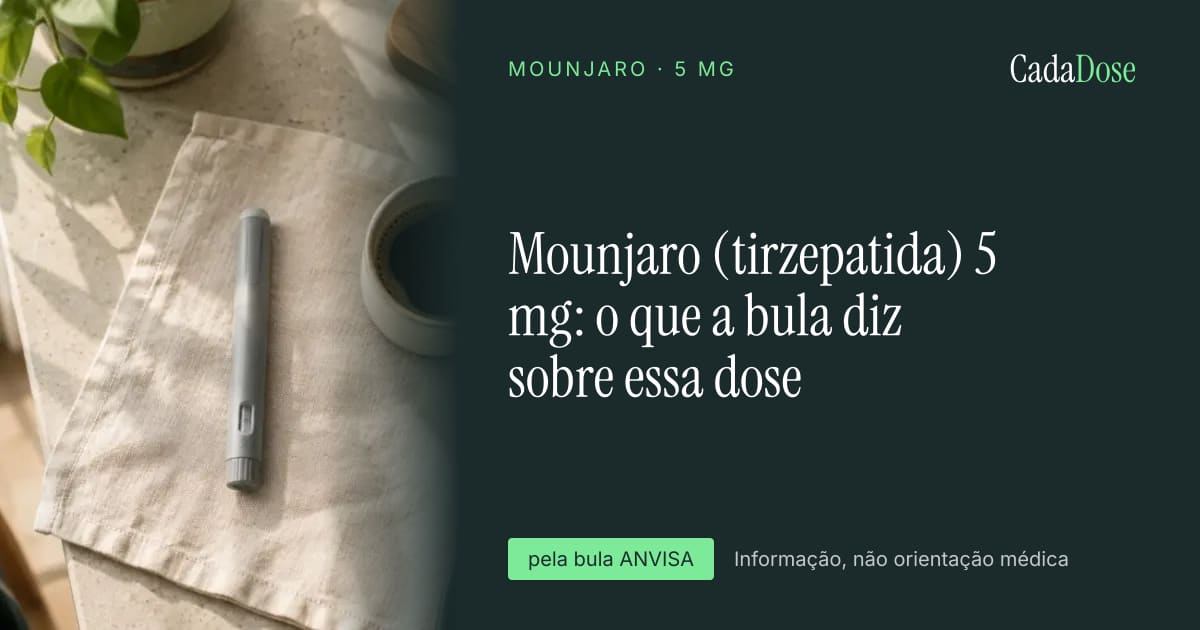
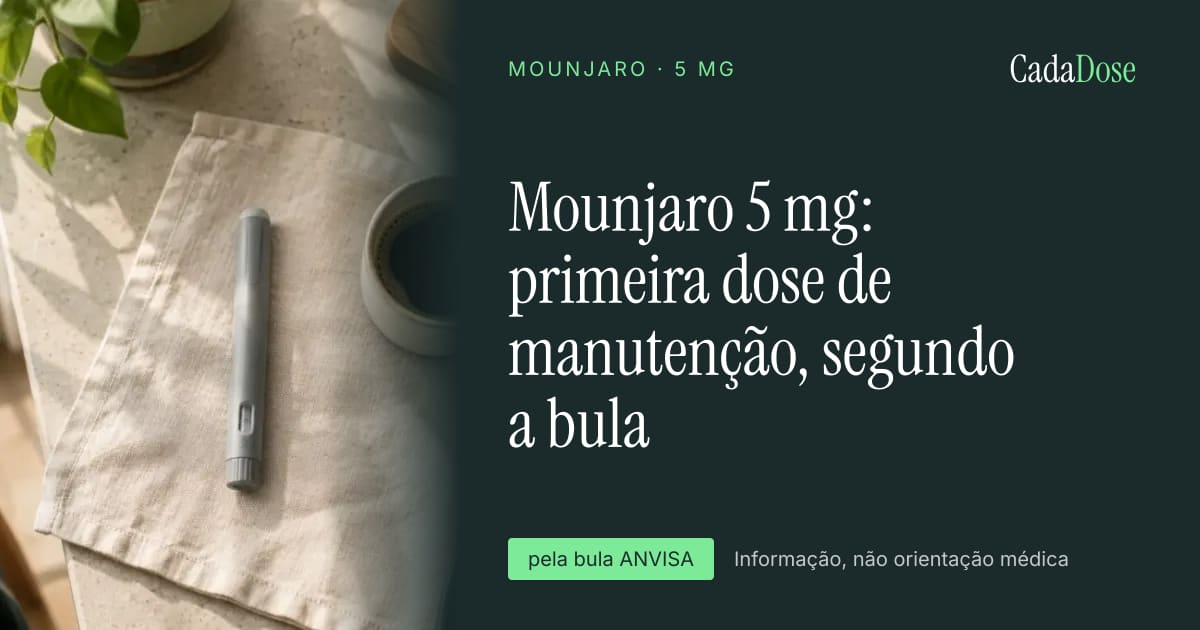
SEO pass from Search Console data
- Dose pages: short titles matching how Brazilians search ("Wegovy 0,25 mg: dose de
  início, semanas 1 a 4"), descriptions carry the dotted form (0.25mg)
- Dose tables and receita pages: titles with the key fact / online+digital
- Medication hubs: title with doses/validade and question count
- New sourced article: quem amamenta pode tomar "Mounjaro de pobre"
  (tirzepatida manipulada) — Mounjaro bula + ANVISA NT 200/2025
- Section links ("Leia também") in articles/guides; guide links to it
- BreadcrumbList on hubs/guides/temas, ItemList on temas; sitemap lastmod bump

Claude-Session: https://claude.ai/code/session_01Pw4jiE9WjkrQrU8knGg6oQ

Changed region(s): [[0.4008, 0.2714, 0.8633, 0.7238]]

diff --git a/src/content/pt-wave6.ts b/src/content/pt-wave6.ts
@@ -24,7 +24,7 @@ const cff = {
 const sx = { label: "Bula do paciente Saxenda® (liraglutida), Novo Nordisk — registro ANVISA 1.1766.0032, aprovada em 17/04/2026", url: "https://novonordisk.com.br/content/dam/nncorp/br/pt/pdfs/bulas/patient/Saxenda_Bula_Paciente1.pdf" };
 const rb = { label: "Bula do paciente Rybelsus® (semaglutida), Novo Nordisk — registro ANVISA 1.1766.0037, aprovada em 08/09/2026", url: "https://www.novonordisk.com.br/content/dam/nncorp/br/pt/pdfs/bulas/patient/Rybelsus_Bula_PACIENTE.pdf" };
 const bulario = { label: "Bulário Eletrônico — ANVISA (confira a versão mais recente)", url: "https://consultas.anvisa.gov.br/#/bulario/" };
-const U = "2026-10-28";
+const U = "2026-11-03";
 
 const A = (medicationSlug: string, intent: Article["intent"], title: string, answer: string, description: string, sections: Section[], faq: { q: string; a: string }[], sources: { label: string; url: string }[]): Article =>
   ({ medicationSlug, intent, title, answer, description, updated: U, reviewed: false, sections, faq, sources });
@@ -44,10 +44,18 @@ const mjSteps: [Article["intent"], string, string, string][] = [
   ["dose-12-5-mg", "12,5 mg", "Um passo intermediário entre 10 e 15 mg, permitido pela regra de “acréscimos de 2,5 mg após o mínimo de 4 semanas na dose atual”. Não está entre as doses de manutenção recomendadas listadas na bula (5, 10 e 15 mg).", "Passo intermediário entre 10 e 15 mg."],
   ["dose-15-mg", "15 mg", "A dose máxima. “A dose máxima de MOUNJARO é 15 mg uma vez por semana.” Também é uma das doses de manutenção recomendadas. Em adolescentes com diabetes tipo 2, o máximo é 10 mg.", "Dose máxima em adultos segundo a bula."],
 ];
+const mjTitles: Record<string, string> = {
+  "dose-2-5-mg": "Mounjaro 2,5 mg: dose inicial por 4 semanas, segundo a bula",
+  "dose-5-mg": "Mounjaro 5 mg: primeira dose de manutenção, segundo a bula",
+  "dose-7-5-mg": "Mounjaro 7,5 mg: passo entre 5 e 10 mg, segundo a bula",
+  "dose-10-mg": "Mounjaro 10 mg: dose de manutenção, segundo a bula",
+  "dose-12-5-mg": "Mounjaro 12,5 mg: passo entre 10 e 15 mg, segundo a bula",
+  "dose-15-mg": "Mounjaro 15 mg: dose máxima, segundo a bula",
+};
 const mjDose = mjSteps.map(([intent, mg, answer, short]) =>
-  A("mounjaro", intent, `Mounjaro (tirzepatida) ${mg}: o que a bula diz sobre essa dose`,
+  A("mounjaro", intent, mjTitles[intent],
     `${answer} Cada caneta de uso único de 0,5 mL contém uma dose; a caixa tem 4 canetas (4 semanas).`,
-    `Mounjaro ${mg} segundo a bula brasileira: ${short}`,
+    `Mounjaro (tirzepatida) ${mg} (${mg.replace(",", ".").replace(" ", "")}) segundo a bula brasileira: ${short} Quanto tempo ficar, quando aumentar, o que fazer se esquecer.`,
     [
       { heading: "A escada de doses na bula (seção 6)", table: { head: ["Dose", "Papel na bula"], rows: [["2,5 mg", "Dose inicial, 4 semanas"], ["5 mg", "Manutenção (após 4 semanas em 2,5 mg)"], ["7,5 mg", "Passo intermediário"], ["10 mg", "Manutenção"], ["12,5 mg", "Passo intermediário"], ["15 mg", "Manutenção e dose máxima"]] } },
       { heading: "Regras de aumento", bullets: ["“Se necessário, aumentos de dose podem ser feitos em acréscimos de 2,5 mg após o mínimo de 4 semanas na dose atual.”", "“A dose máxima de MOUNJARO é 15 mg uma vez por semana.”", "Controle do peso: se não houver perda de pelo menos 5% do peso inicial em 6 meses na maior dose tolerada, o médico decide se continua (bula versão 05/2026)."] },
@@ -70,9 +78,9 @@ const wgSteps: [Article["intent"], string, string][] = [
   ["dose-2-4-mg", "2,4 mg", "Dose de manutenção a partir da semana 17; “depois de atingir a dose recomendada de 2,4 mg, não aumente mais esta dose”."],
 ];
 const wgDose = wgSteps.map(([intent, mg, role]) =>
-  A("wegovy", intent, `Wegovy (semaglutida) ${mg}: o que a bula diz sobre essa dose`,
+  A("wegovy", intent, `Wegovy ${mg}: ${role.replace(/[.;].*$/, "").replace(/^Dose de manutenção a partir da semana 17/, "dose de manutenção (semana 17 em diante)").replace(/^Dose de início/, "dose de início").replace(/^Semanas/, "semanas")}, segundo a bula`,
     `${role} A bula do Wegovy aumenta a dose a cada 4 semanas até 2,4 mg (dose de manutenção) ou a dose máxima tolerada. Se o enjoo incomodar muito, a bula orienta conversar com o médico sobre adiar o aumento ou voltar à dose anterior. Cada caneta tem 4 doses da mesma concentração.`,
-    `Wegovy ${mg} segundo a bula brasileira: ${role}`,
+    `Wegovy (semaglutida) ${mg} (${mg.replace(",", ".").replace(" ", "")}) segundo a bula brasileira: ${role} Escada completa de 0,25 a 2,4 mg e o que fazer com o enjoo.`,
     [
       { heading: "A escada de doses na bula (seção 6)", table: { head: ["Semanas", "Dose semanal"], rows: [["1–4", "0,25 mg"], ["5–8", "0,5 mg"], ["9–12", "1 mg"], ["13–16", "1,7 mg"], ["17 em diante", "2,4 mg (manutenção)"]] } },
       { heading: "O que a bula diz sobre tolerância", bullets: ["“Caso você esteja se sentindo muito incomodado por conta do enjoo (náuseas) ou vômitos, converse com seu médico sobre adiar o aumento da dose ou diminuir para a dose anterior até que os sintomas melhorem.”", "“A dose deve ser aumentada até atingir 2,4 mg (dose de manutenção) ou a dose máxima tolerada.”"] },
@@ -91,9 +99,9 @@ const ozSteps: [Article["intent"], string, string, { label: string; url: string 
   ["dose-1-mg", "1 mg", "Dose máxima na bula brasileira do paciente: após pelo menos 4 semanas em 0,5 mg, o médico pode aumentar para 1 mg.", oz],
 ];
 const ozDose = ozSteps.map(([intent, mg, role, src]) =>
-  A("ozempic", intent, `Ozempic (semaglutida) ${mg}: o que a bula diz sobre essa dose`,
+  A("ozempic", intent, `Ozempic ${mg}: ${intent === "dose-1-mg" ? "dose máxima da bula brasileira" : role.replace(/[.;].*$/, "").toLowerCase()}, segundo a bula`,
     `${role} A escada na bula é 0,25 mg (4 semanas) → 0,5 mg → 1 mg, sempre uma vez por semana, por decisão médica. Cada caneta tem 4 doses; a caneta em uso dura 6 semanas.`,
-    `Ozempic ${mg} segundo a bula brasileira: ${role}`,
+    `Ozempic (semaglutida) ${mg} (${mg.replace(",", ".").replace(" ", "")}) segundo a bula brasileira: ${role} Escada 0,25 → 0,5 → 1 mg e canetas.`,
     [
       { heading: "A escada de doses na bula", table: { head: ["Período", "Dose semanal"], rows: [["Semanas 1–4", "0,25 mg (início)"], ["A partir da semana 5", "0,5 mg"], ["Após ≥ 4 semanas em 0,5 mg, se o médico decidir", "1 mg"]] } },
       { heading: "Canetas", paragraphs: ["A caneta de 0,25/0,5 mg (1,5 mL) e a caneta de 1 mg (3 mL) são apresentações diferentes; cada uma entrega 4 doses. Agulha nova a cada aplicação; caneta em uso por até 6 semanas."] },
@@ -106,9 +114,9 @@ const ozDose = ozSteps.map(([intent, mg, role, src]) =>
 
 // ───────── PRECISA DE RECEITA ─────────
 const receita = (slug: string, nome: string, bula: { label: string; url: string }) =>
-  A(slug, "precisa-de-receita", `${nome} precisa de receita? O que a regra da ANVISA exige`,
+  A(slug, "precisa-de-receita", `${nome} precisa de receita? Receita retida, digital e online: a regra da ANVISA`,
     `Sim. Desde a RDC 973/2025 (com a IN 360/2025), medicamentos à base de semaglutida, liraglutida, dulaglutida, tirzepatida e lixisenatida só são vendidos com receita, e a farmácia retém uma via: “A retenção da receita é obrigatória”. A receita vale 90 dias e a venda é registrada no SNGPC. Isso vale para ${nome}.`,
-    `${nome} exige receita médica retida (RDC 973/2025). Validade da receita, via retida e receita digital.`,
+    `${nome} exige receita médica retida (RDC 973/2025). Dá para comprar online ou sem receita? Validade de 90 dias, via retida e receita digital pelo SNCR.`,
     [
       { heading: "O que mudou (RDC 973/2025 e IN 360/2025)", bullets: ["Receita obrigatória em duas vias; a farmácia fica com uma (“A retenção da receita é obrigatória”).", "A receita vale por 90 dias a partir da emissão.", "Compra e venda registradas no SNGPC.", "Receita digital só vale se emitida por sistema integrado ao SNCR.", "A regra alcança semaglutida, liraglutida, dulaglutida, tirzepatida e lixisenatida, isoladas ou em associação."] },
       { heading: "O que a bula diz", paragraphs: [`A bula do ${nome} traz a tarja “Venda sob prescrição médica”. A decisão de iniciar, manter ou mudar a dose é do médico.`] },

diff --git a/src/content/pt-manipulados.ts b/src/content/pt-manipulados.ts
@@ -14,6 +14,11 @@ const cffNorma2026 = {
   url: "https://site.cff.org.br/noticia/Noticias-gerais/14/04/2026/anvisa-prepara-nova-norma-com-regras-para-manipulacao-de-canetas-emagrecedoras",
 };
 
+const mounjaroBula = {
+  label: "Bula do paciente Mounjaro® (tirzepatida), Eli Lilly do Brasil — registro ANVISA 1.1260.0202, versão 05/2026 (ampliação de uso aprovada em 22/04/2026)",
+  url: "https://bkt-prd-grupopanvel-datalake-documents.s3.amazonaws.com/bulas/anomesdia=20260513/codigo_item=89181/bula_paciente.pdf",
+};
+
 const sharedSections = [
   {
     heading: "Receita obrigatória e retida (RDC 973/2025)",
@@ -90,5 +95,53 @@ export const ptManipulados: Article[] = [
     ],
     faq: sharedFaq,
     sources: [nt200, cffRdc973, cffNorma2026],
+  },
+  {
+    medicationSlug: "tirzepatida-manipulada",
+    intent: "gravidez-e-amamentacao",
+    title: "Quem amamenta pode tomar “Mounjaro de pobre” (tirzepatida manipulada)? O que dizem a bula e a ANVISA",
+    answer:
+      "Não existe bula para “Mounjaro de pobre”: o nome é usado para a tirzepatida manipulada, que não tem registro nem bula na ANVISA. A única bula de tirzepatida no Brasil é a do Mounjaro, e ela diz que a quantidade no leite materno é “considerada indetectável a muito baixa”, com uso na amamentação sujeito a avaliação médica. Para o manipulado, a ANVISA afirma que esses injetáveis não têm “comprovação de estabilidade, esterilidade e equivalência terapêutica”, ou seja, o que vale para o Mounjaro não pode ser estendido a ele. A decisão é do médico.",
+    description: "“Mounjaro de pobre” é a tirzepatida manipulada, sem bula. O que a bula do Mounjaro diz sobre amamentação e por que a ANVISA não considera o manipulado equivalente.",
+    updated: "2026-11-03",
+    reviewed: false,
+    sections: [
+      {
+        heading: "O que é chamado de “Mounjaro de pobre”",
+        paragraphs: [
+          "A expressão aparece nas buscas para a tirzepatida manipulada em farmácia (frasco com seringa) e, às vezes, para outras canetas sem registro. Nenhum desses produtos tem bula aprovada pela ANVISA. O único medicamento com tirzepatida registrado no Brasil é o Mounjaro (registro 1.1260.0202).",
+        ],
+        links: [
+          { label: "“Mounjaro natural” ou “de pobre” existe?", href: "/guias/mounjaro-natural-ou-de-pobre-existe" },
+          { label: "Tirzepatida manipulada: regras da ANVISA", href: "/medicamentos/tirzepatida-manipulada/regras-anvisa" },
+        ],
+      },
+      {
+        heading: "O que a bula do Mounjaro diz sobre amamentação",
+        paragraphs: [
+          "A bula do paciente informa que a quantidade de tirzepatida no leite materno é “considerada indetectável a muito baixa”, e que o uso durante a amamentação deve ser avaliado pelo médico. A bula não libera o uso por conta própria.",
+        ],
+        links: [{ label: "Mounjaro na gravidez e na amamentação (bula)", href: "/medicamentos/mounjaro/gravidez-e-amamentacao" }],
+      },
+      {
+        heading: "Por que isso não se transfere ao manipulado (Nota Técnica 200/2025)",
+        bullets: [
+          "A ANVISA classifica os injetáveis de GLP-1 manipulados como de alto risco “sem comprovação de estabilidade, esterilidade e equivalência terapêutica”.",
+          "“A manipulação rotineira dessas substâncias em farmácias não se mostra viável do ponto de vista sanitário.”",
+          "O insumo precisa ter identidade, pureza e rastreabilidade documentadas; é “vedado o uso de IFAs” sem origem e boas práticas comprovadas.",
+          "Sem equivalência comprovada, não há como afirmar que a quantidade que passa ao leite seja a mesma descrita na bula do Mounjaro.",
+        ],
+      },
+      {
+        heading: "Receita obrigatória (RDC 973/2025)",
+        paragraphs: ["Tirzepatida, manipulada ou não, só é dispensada com receita retida em duas vias, válida por 90 dias, com registro no SNGPC (IN 360/2025)."],
+      },
+    ],
+    faq: [
+      { q: "Quem amamenta pode tomar Mounjaro de pobre?", a: "Não há bula nem avaliação da ANVISA para a tirzepatida manipulada, então não existe orientação oficial de uso na amamentação. A bula do Mounjaro descreve a quantidade no leite como indetectável a muito baixa, com uso sujeito ao médico; a ANVISA diz que o manipulado não tem equivalência comprovada. Fale com quem prescreveu." },
+      { q: "A bula do Mounjaro vale para o manipulado?", a: "Não. A bula se refere ao produto registrado; a Nota Técnica 200/2025 afirma que os manipulados não têm comprovação de estabilidade, esterilidade e equivalência terapêutica." },
+      { q: "E na gravidez?", a: "A bula do Mounjaro diz que, para controle do peso, o medicamento não deve ser usado na gravidez, e que deve ser interrompido pelo menos 1 mês antes de uma gravidez planejada. Para o manipulado, não há bula." },
+    ],
+    sources: [mounjaroBula, nt200, cffRdc973],
   },
 ];

diff --git a/src/app/medicamentos/[slug]/page.tsx b/src/app/medicamentos/[slug]/page.tsx
@@ -1,5 +1,6 @@
 import type { Metadata } from "next";
 import { social } from "@/lib/seo";
+import { siteUrl } from "@/lib/locales";
 import Link from "next/link";
 import { notFound } from "next/navigation";
 import { dictionary as t } from "@/i18n/dictionaries";
@@ -19,10 +20,10 @@ export async function generateMetadata({ params }: { params: Promise<{ slug: str
   const med = getMedication(slug);
   if (!med) return {};
   return {
-    title: `${med.name} — ${t.content.allAbout.toLowerCase()} ${med.activeIngredient}`,
-    description: t.content.disclaimerShort,
+    title: `${med.name.split(" (")[0]}: bula, doses, validade e ${getArticlesForMedication(slug).length} perguntas respondidas`,
+    description: `Tudo sobre ${med.name} pela bula aprovada pela ANVISA: tabela de doses, validade depois de aberto, dose esquecida, efeitos colaterais, receita. ${t.content.disclaimerShort}`,
     alternates: { canonical: `/medicamentos/${slug}` },
-    ...social(`med-${slug}`, `${med.name} — ${t.content.allAbout.toLowerCase()} ${med.activeIngredient}`, t.content.disclaimerShort, { path: `/medicamentos/${slug}` }),
+    ...social(`med-${slug}`, `${med.name.split(" (")[0]}: bula, doses, validade e perguntas respondidas`, `Tudo sobre ${med.name} pela bula aprovada pela ANVISA.`, { path: `/medicamentos/${slug}` }),
   };
 }
 
@@ -41,8 +42,10 @@ export default async function MedicationHub({ params }: { params: Promise<{ slug
   if (med.maxTempC) facts.push(["Temperatura máxima", `${med.maxTempC} °C`]);
   if (med.missedDoseWindowHours) facts.push(["Janela da dose esquecida", `${med.missedDoseWindowHours} h`]);
 
+  const crumbsLd = { "@context": "https://schema.org", "@type": "BreadcrumbList", itemListElement: [{ "@type": "ListItem", position: 1, name: "Medicamentos", item: `${siteUrl}/medicamentos` }, { "@type": "ListItem", position: 2, name: short, item: `${siteUrl}/medicamentos/${slug}` }] };
   return (
     <>
+      <script type="application/ld+json" dangerouslySetInnerHTML={{ __html: JSON.stringify(crumbsLd) }} />
       <PageHero eyebrow={`${med.activeIngredient} · ${med.frequency === "daily" ? "uso diário" : "aplicação semanal"}`} title={`${short}: ${articles.length} perguntas respondidas pela bula`} lede={t.content.disclaimerShort} image={medImage(slug)} crumbs={[{ label: "Medicamentos", href: "/medicamentos" }, { label: short }]} />
 
       <div className="mx-auto max-w-7xl px-6 py-14 md:px-10 md:py-20">

diff --git a/src/content/guias-marcas.ts b/src/content/guias-marcas.ts
@@ -134,6 +134,11 @@ export const guiasMarcasExtra: Guide[] = [
         "Não há “tirzepatida natural”: tirzepatida é uma molécula sintética produzida por laboratório, com registro de medicamento. Chás, cápsulas de berberina, canela ou “GLP-1 natural” não têm bula que os equipare e não são regulados como medicamento.",
         "Não há “Mounjaro de pobre” registrado: o termo circula para canetas contrabandeadas do Paraguai (Tirzec, Lipoless, Gluconex, Tirzedral, T36), proibidas pela ANVISA, ou para manipulados, que a ANVISA só admite em caráter excepcional (Nota Técnica 200/2025).",
       ] },
+      { heading: "Perguntas que chegam junto com “Mounjaro de pobre”", paragraphs: ["Quem amamenta, quem está grávida ou quem usa anticoncepcional pergunta se as regras da bula do Mounjaro valem para o manipulado. Não valem: a ANVISA não reconhece equivalência. As páginas abaixo mostram o que a bula do Mounjaro diz e por que isso não se transfere."], links: [
+        { label: "Quem amamenta pode tomar “Mounjaro de pobre”?", href: "/medicamentos/tirzepatida-manipulada/gravidez-e-amamentacao" },
+        { label: "Mounjaro na gravidez e na amamentação", href: "/medicamentos/mounjaro/gravidez-e-amamentacao" },
+        { label: "Tirzepatida manipulada: regras da ANVISA", href: "/medicamentos/tirzepatida-manipulada/regras-anvisa" },
+      ] },
       { heading: "Se a questão é preço", paragraphs: ["Este site não publica preços nem indica onde comprar. O que a regulação permite: medicamentos registrados, com receita retida (RDC 973/2025). Em 2026 a ANVISA registrou semaglutidas nacionais e liraglutidas genéricas, que dependem de preço da CMED para chegar às farmácias. Converse com o médico sobre o que está disponível e registrado."] },
     ],
     faq: [

diff --git a/src/app/temas/[intent]/page.tsx b/src/app/temas/[intent]/page.tsx
@@ -1,5 +1,6 @@
 import type { Metadata } from "next";
 import { social } from "@/lib/seo";
+import { siteUrl } from "@/lib/locales";
 import Link from "next/link";
 import { notFound } from "next/navigation";
 import { allArticles } from "@/content";
@@ -23,8 +24,13 @@ export default async function Tema({ params }: { params: Promise<{ intent: strin
   const arts = allArticles.filter((a) => a.intent === intent);
   if (!label || !arts.length) notFound();
   const others = intents.filter((i) => i !== intent).slice(0, 12);
+  const jsonLd = [
+    { "@context": "https://schema.org", "@type": "BreadcrumbList", itemListElement: [{ "@type": "ListItem", position: 1, name: "Perguntas", item: `${siteUrl}/perguntas` }, { "@type": "ListItem", position: 2, name: label, item: `${siteUrl}/temas/${intent}` }] },
+    { "@context": "https://schema.org", "@type": "ItemList", name: `${label}: o que diz a bula de cada medicamento`, itemListElement: arts.map((a, i) => ({ "@type": "ListItem", position: i + 1, name: a.title, url: `${siteUrl}/medicamentos/${a.medicationSlug}/${a.intent}` })) },
+  ];
   return (
     <>
+      <script type="application/ld+json" dangerouslySetInnerHTML={{ __html: JSON.stringify(jsonLd) }} />
       <PageHero eyebrow="Tema" title={`${label}: o que diz a bula de cada medicamento`} lede="A mesma pergunta, respondida pela bula de cada produto. As respostas diferem porque as bulas diferem." image={themeImage(intent)} crumbs={[{ label: "Perguntas", href: "/perguntas" }, { label }]} />
 
       <div className="mx-auto max-w-7xl px-6 py-14 md:px-10 md:py-20">

diff --git a/src/content/pt-wave3.ts b/src/content/pt-wave3.ts
@@ -64,7 +64,7 @@ export const ptWave3: Article[] = [
   {
     medicationSlug: "ozempic",
     intent: "tabela-de-dose",
-    title: "Tabela de doses do Ozempic (semaglutida) segundo a bula brasileira",
+    title: "Tabela de doses do Ozempic: 0,25, 0,5 e 1 mg, semana a semana (bula brasileira)",
     answer:
       "Segundo a bula, Ozempic começa com 0,25 mg uma vez por semana durante 4 semanas e passa para 0,5 mg por semana. Se o controle glicêmico ainda for insuficiente com 0,5 mg, o médico pode aumentar para 1 mg uma vez por semana, a dose mais alta listada na bula brasileira. A dose de 0,25 mg é de adaptação, não de manutenção.",
     description: "Esquema de doses do Ozempic no Brasil (0,25 mg, 0,5 mg e 1 mg) conforme a bula, e quantas doses tem cada caneta.",
@@ -174,7 +174,7 @@ export const ptWave3: Article[] = [
   {
     medicationSlug: "wegovy",
     intent: "tabela-de-dose",
-    title: "Tabela de doses do Wegovy (semaglutida) segundo a bula brasileira",
+    title: "Tabela de doses do Wegovy: 0,25 a 2,4 mg, semana a semana (bula brasileira)",
     answer:
       "Segundo a bula, Wegovy sobe em etapas de 4 semanas: 0,25 mg (semanas 1 a 4), 0,5 mg (5 a 8), 1 mg (9 a 12), 1,7 mg (13 a 16) e 2,4 mg a partir da semana 17, que é a dose de manutenção. A partir da semana 21, em condições específicas, o médico pode considerar 7,2 mg por semana (três aplicações de 2,4 mg).",
     description: "Esquema de doses do Wegovy no Brasil, de 0,25 mg a 2,4 mg, conforme a bula, com a opção de 7,2 mg em condições específicas.",

diff --git a/src/app/guias/[slug]/page.tsx b/src/app/guias/[slug]/page.tsx
@@ -29,6 +29,7 @@ export default async function GuidePage({ params }: { params: Promise<{ slug: st
   const url = `${siteUrl}/guias/${slug}`;
   const jsonLd = [
     { "@context": "https://schema.org", "@type": "MedicalWebPage", name: g.title, description: g.description, url, inLanguage: "pt-BR", dateModified: g.updated, image: `${siteUrl}/og/g-${slug}.jpg`, author: { "@type": "Organization", name: siteName, url: `${siteUrl}/sobre` }, publisher: { "@id": `${siteUrl}/#org` }, citation: g.sources.map((s) => s.url), mainEntityOfPage: url, speakable: { "@type": "SpeakableSpecification", cssSelector: ["h1", "article p.text-lg"] } },
+    { "@context": "https://schema.org", "@type": "BreadcrumbList", itemListElement: [{ "@type": "ListItem", position: 1, name: "Perguntas", item: `${siteUrl}/perguntas` }, { "@type": "ListItem", position: 2, name: "Guias", item: `${siteUrl}/perguntas` }, { "@type": "ListItem", position: 3, name: g.title, item: url }] },
     { "@context": "https://schema.org", "@type": "FAQPage", mainEntity: g.faq.map((f) => ({ "@type": "Question", name: f.q, acceptedAnswer: { "@type": "Answer", text: f.a } })) },
   ];
   return (

diff --git a/src/content/pt.ts b/src/content/pt.ts
@@ -78,7 +78,7 @@ export const ptArticles: Article[] = [
   {
     medicationSlug: "mounjaro",
     intent: "tabela-de-dose",
-    title: "Tabela de doses do Mounjaro (tirzepatida) segundo a bula brasileira",
+    title: "Tabela de doses do Mounjaro: 2,5 a 15 mg, semana a semana (bula brasileira)",
     answer:
       "Segundo a bula, Mounjaro começa com 2,5 mg uma vez por semana. Após 4 semanas, passa para 5 mg por semana. Aumentos seguintes são de 2,5 mg, cada um após pelo menos 4 semanas na dose atual. A dose máxima é 15 mg uma vez por semana. Quem define cada mudança é o médico.",
     description: "Esquema de doses do Mounjaro no Brasil, de 2,5 mg a 15 mg, conforme a bula: dose inicial, intervalo entre aumentos e dose máxima.",

diff --git a/src/components/ArticleBody.tsx b/src/components/ArticleBody.tsx
@@ -66,6 +66,7 @@ export default function ArticleBody({ a, note, path, title, image }: { a: Body; 
                   </table>
                 </div>
               )}
+              {s.links && <ul className="mt-4 flex flex-wrap gap-2">{s.links.map((l) => <li key={l.href}><Link href={l.href} className="chip hover:border-forest hover:text-forest">{l.label} ↗</Link></li>)}</ul>}
               <p className="mt-3 text-xs text-label">Fonte: <a href={a.sources[0].url} rel="noopener" className="underline">{a.sources[0].label}</a></p>
             </section>
           ))}

diff --git a/src/app/sitemap.ts b/src/app/sitemap.ts
@@ -6,7 +6,7 @@ import { guias } from "@/content/guias";
 import { themeImage, guideImage } from "@/lib/images";
 
 export default function sitemap(): MetadataRoute.Sitemap {
-  const now = new Date("2026-10-29"); // bump on each content release
+  const now = new Date("2026-11-03"); // bump on each content release
   return [
     { url: `${siteUrl}/`, lastModified: now, changeFrequency: "weekly", priority: 1 },
     { url: `${siteUrl}/medicamentos`, lastModified: now, changeFrequency: "weekly", priority: 0.8 },

diff --git a/src/content/types.ts b/src/content/types.ts
@@ -41,6 +41,8 @@ export interface Section {
   bullets?: string[];
   /** Simple table: header row + rows. */
   table?: { head: string[]; rows: string[][] };
+  /** Internal links shown under the section ("Leia também"). */
+  links?: { label: string; href: string }[];
 }
 
 export interface Article {
